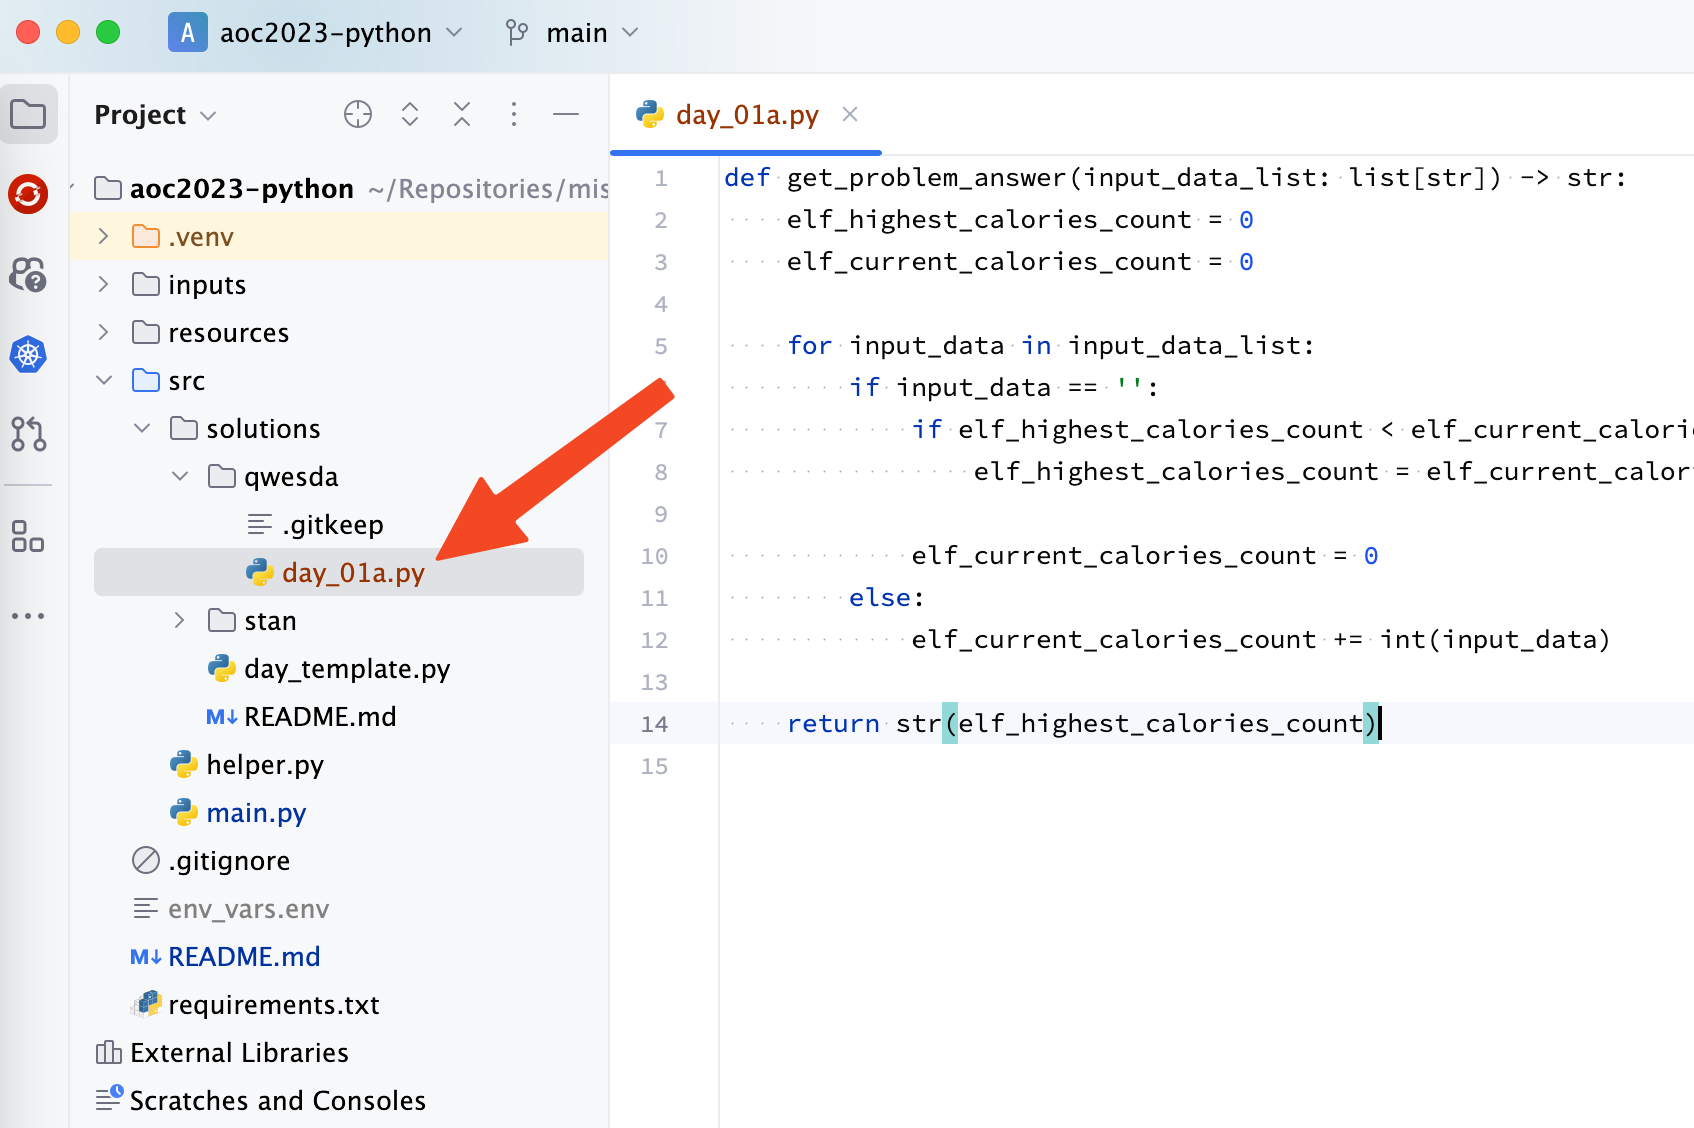
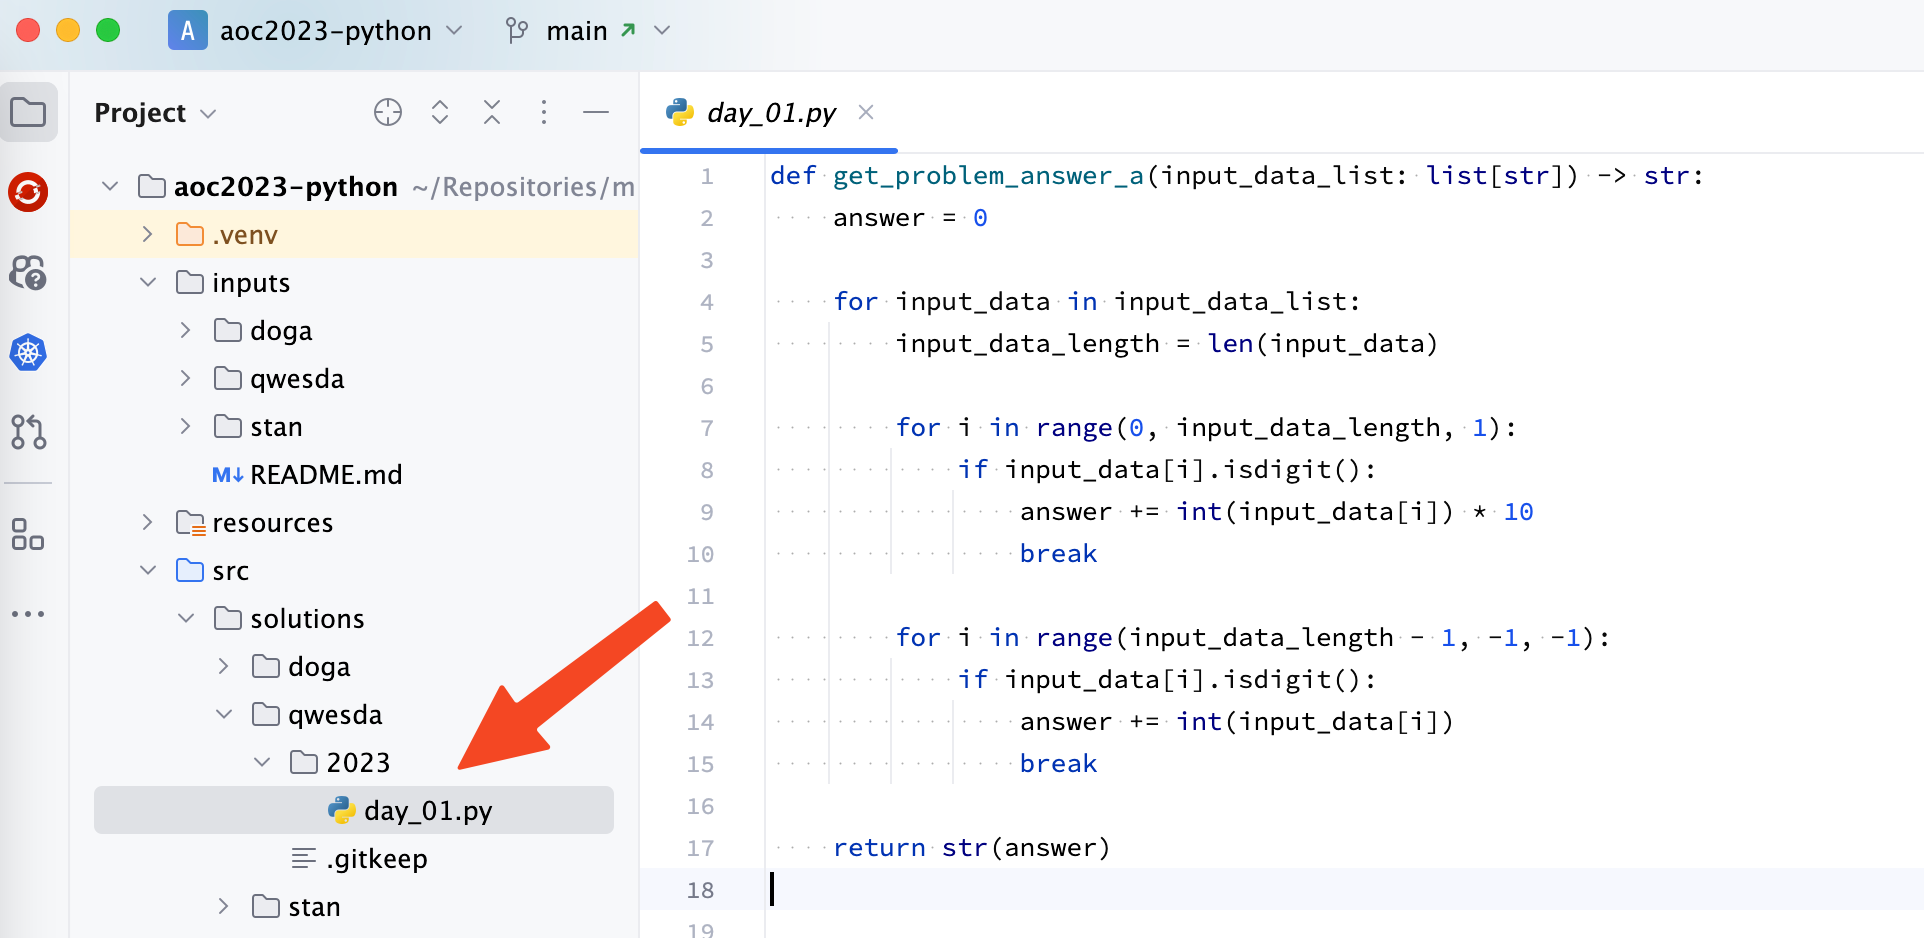
update documentation

diff --git a/src/solutions/day_template.py b/src/solutions/day_template.py
@@ -3,7 +3,15 @@ def get_problem_answer_a(input_data: list[str]) -> str:
 
     return ''
 
+
 def get_problem_answer_b(input_data: list[str]) -> str:
+    # data processing here
+
+    return ''
+
+
+# you can have multiple versions of the same solution like this
+def get_problem_answer_b_v2(input_data: list[str]) -> str:
     # data processing here
 
     return ''

diff --git a/src/solutions/README.md b/src/solutions/README.md
@@ -1,11 +1,21 @@
 #  Directory for solution python files
 
-- the solution files should be placed either in the `stan` or `qwesda` subdirectory
-- the filenames should follow this pattern: `day_01a.py`, `day_01b.py`, `day_02a.py`, `day_02b.py`, ...
-- the basic file structure is as follows:
+- the solution files should be placed either in the users/yeas subdirectory, i.e. `stan/2023/day_01.py`
+- the filenames should follow this pattern: `day_01.py`, `day_02.py`, ...
+- the basic file structure is as follows, use optional suffixes for multiple solution versions (`_v1`, `_v2`, ...):
 
 ```python
-def get_problem_answer(input_data: list[str]) -> str:
+def get_problem_answer_a(input_data: list[str]) -> str:
+    # data processing here
+
+    return ''
+
+def get_problem_answer_b_v1(input_data: list[str]) -> str:
+    # data processing here
+
+    return ''
+
+def get_problem_answer_b_v2(input_data: list[str]) -> str:
     # data processing here
 
     return ''

diff --git a/inputs/README.md b/inputs/README.md
@@ -1,4 +1,5 @@
 #  Directory for problem inputs
 
 - the downloaded problem inputs should be placed in this directory
-- the filenames should follow this pattern: `day_01a.txt`, `day_01b.txt`, `day_02a.txt`, `day_02b.txt`, ...
+- the filenames should follow this pattern: `day_01.txt`, `day_02.txt` ...
+- optionally the test inputs can also be placed here like this: `day_01-test-a.txt`, `day_01-test-b.txt`

diff --git a/README.md b/README.md
@@ -45,7 +45,7 @@ rm -Rvf .env .venv; /opt/homebrew/bin/python3 -m venv --prompt="`basename $(pwd)
 ![](resources%2Fdownload_inputs.png)
 
 13) start writing your code
-![write_solution.png](resources%2Fwrite_solution.png)
+![](resources%2Fwrite_solution.png)
 
 14) execute/debug your solution with by hitting the little play or debug button in the top right part of the window
 15) have fun
